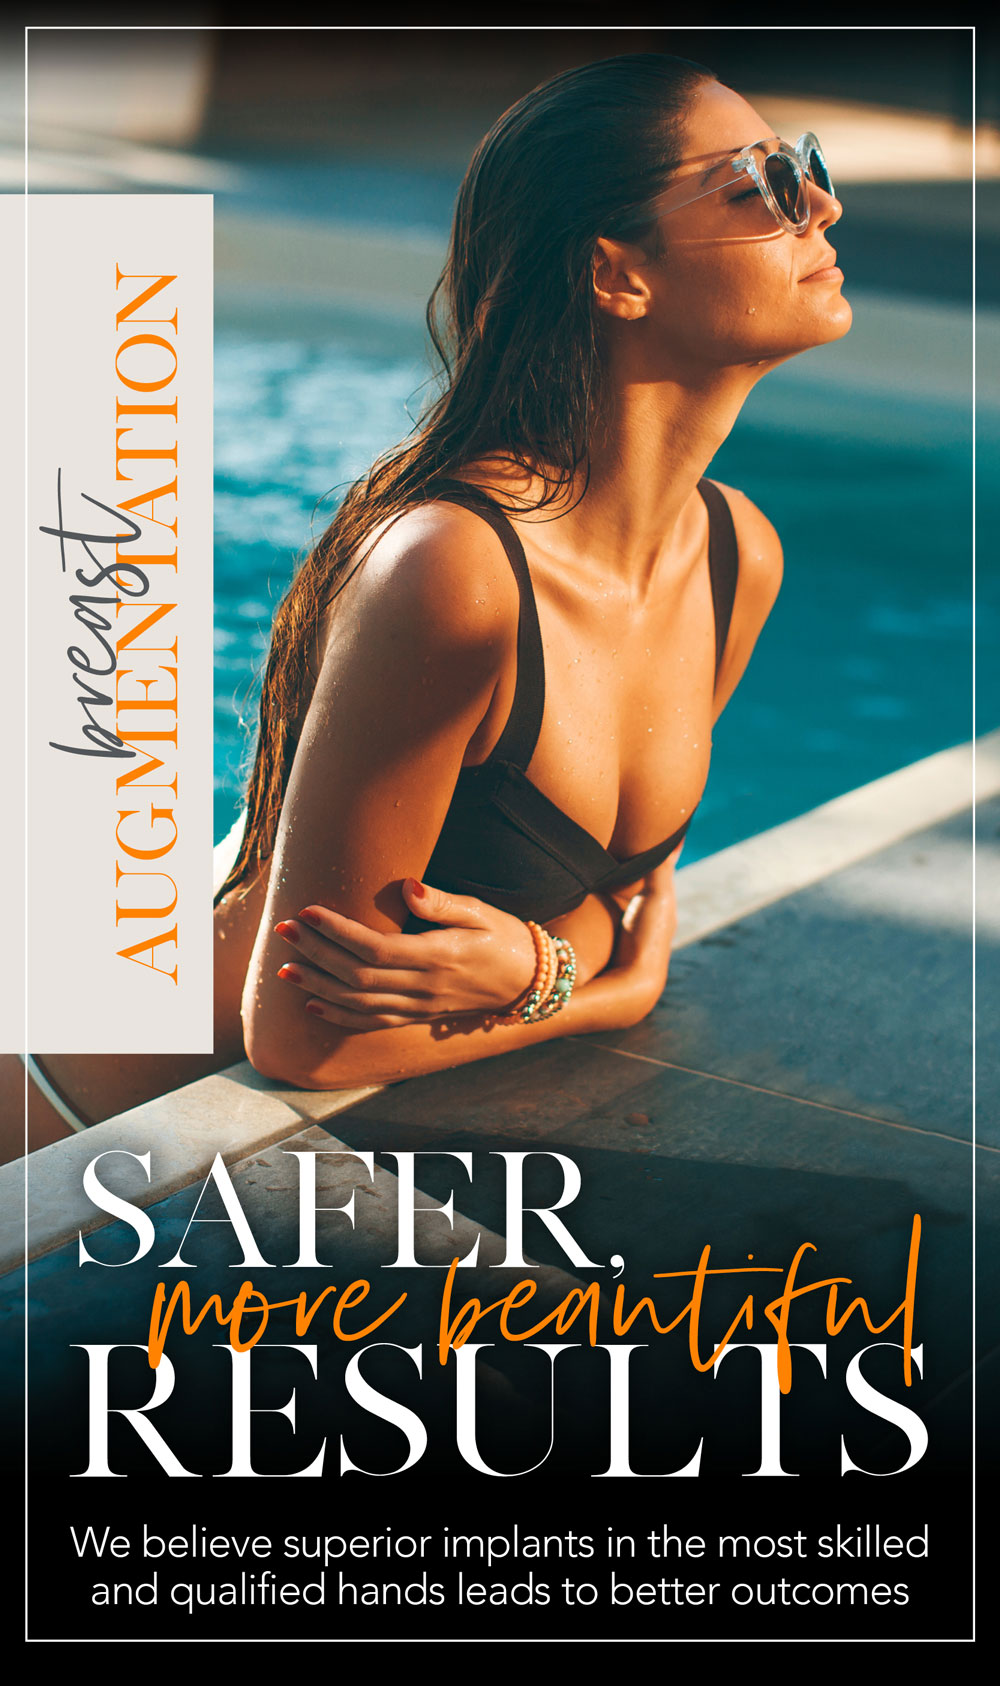
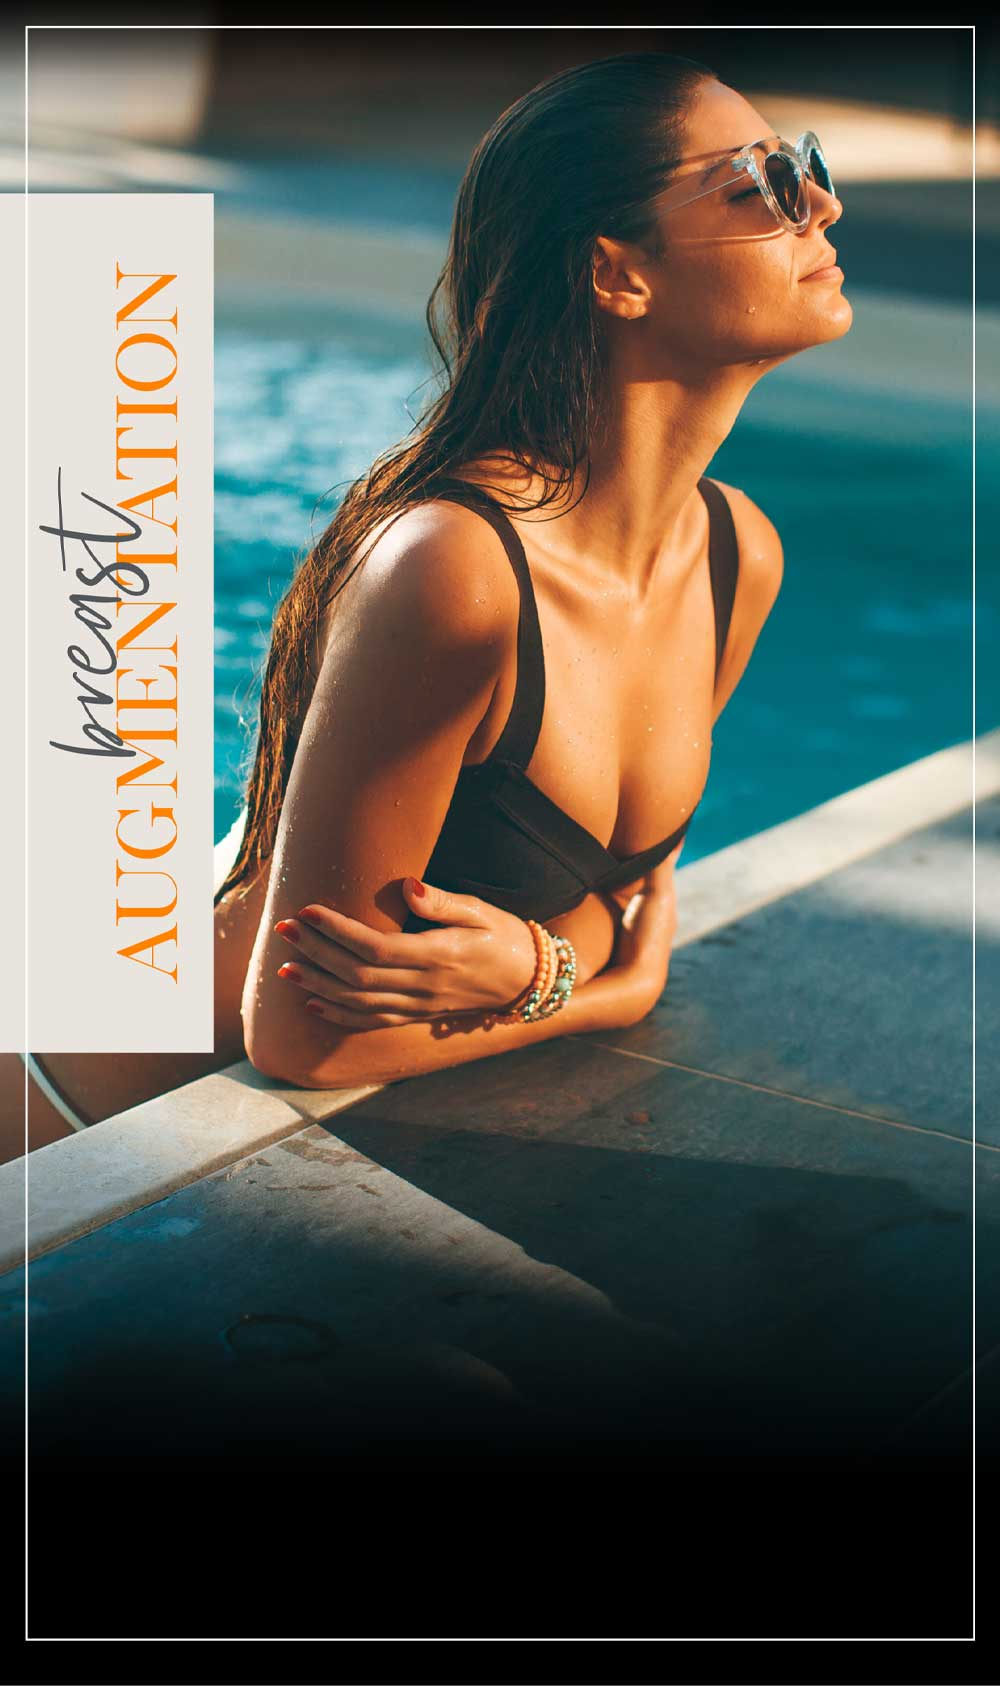
pages

diff --git a/web/app/themes/sientra-theme/resources/assets/styles/layouts/_pages.scss b/web/app/themes/sientra-theme/resources/assets/styles/layouts/_pages.scss
@@ -86,15 +86,34 @@
     background-repeat: no-repeat;
     background-size: contain;
     height: 170vw;
+    display: flex;
+    align-content: flex-end;
+    padding-bottom: 6vw;
     @media (min-width: 768px) { 
 //       background-image: url(../images/aug_home_hero-1200.jpg);
       background-image: url(../images/aug_home_hero-2500.jpg);
-      height: 64vw;
+      height: 62vw;
+      padding-bottom: 7vw;
     }
     @media (min-width: 1999px) { 
       background-image: url(../images/aug_home_hero-2500.jpg);
     }
+    div {
+      .image-h {
+        padding-top: 30%;
 
+      }
+      h2 {
+        font-size: 1.0rem;
+        color: #fff;
+        text-align: center;
+        padding-top: 5%;
+        @media (min-width: 768px) { 
+          font-size: 1.2rem;
+          padding-top: 15%;
+        }
+      }
+    }
   }
   .why-choose {
     background: $tan;

diff --git a/web/app/themes/sientra-theme/resources/assets/styles/common/_global.scss b/web/app/themes/sientra-theme/resources/assets/styles/common/_global.scss
@@ -61,6 +61,14 @@ body {
   .black {
     font-family: 'Avenir-Black', Avenir, sans-serif;
   }
+  .image-h {
+    text-indent: -9999px;
+    font-size: 0;
+    background-position: center center;
+    background-repeat: no-repeat;
+    background-size: contain;
+    display: flex;
+  }
 }
 $height1: 41vw;
 .boxy-box {

diff --git a/web/app/themes/sientra-theme/resources/views/partials/content-page-augmentation-home.blade.php b/web/app/themes/sientra-theme/resources/views/partials/content-page-augmentation-home.blade.php
@@ -1,4 +1,4 @@
-<section class="hero row flex-column">
+<section class="hero row">
 <!-- 	<img src="@asset('images/aug_home_hero.jpg')" class="img-fluid" alt="aug_home_hero" width="2500" height="1552" /> -->
 <!--
 	<img class="img-fluid"
@@ -9,7 +9,13 @@
      src="@asset('images/aug_home_hero-2500.jpg')"
      alt="Safer more beautiful results" width="2500" height="1552" >
 -->
-
+  <div class="col-12 col-md-6 offset-md-6">
+    <span class="image-h" style="background-image: url(@asset('images/safer-results.svg'));">SAFER more beautiful RESULTS</span>
+  </div>
+  <div class="col-12 col-md-6 offset-md-6">
+  	<h2 class="light">We believe superior implants in the most skilled<br>
+and qualified hands leads to better outcomes</h2>
+  </div>
 </section>
 
 <section class="row why-choose text-center my-4  py-5">
